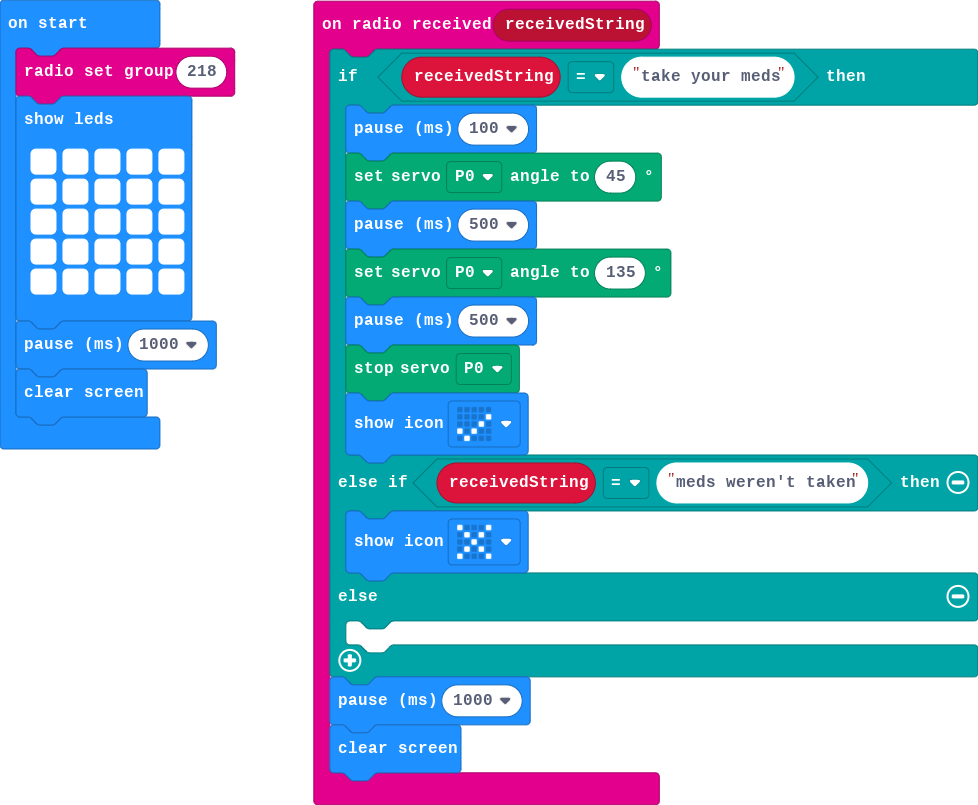
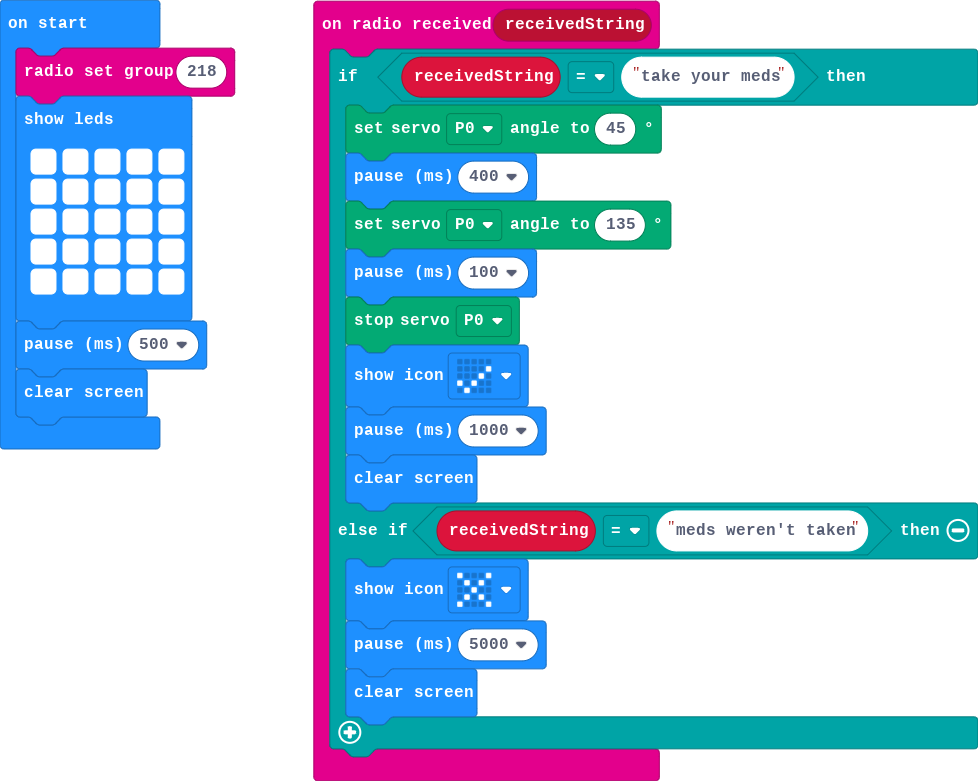
Update main.blocks, main.ts

diff --git a/main.ts b/main.ts
@@ -1,19 +1,18 @@
 radio.onReceivedString(function (receivedString) {
     if (receivedString == "take your meds") {
-        basic.pause(100)
         servos.P0.setAngle(45)
-        basic.pause(500)
+        basic.pause(400)
         servos.P0.setAngle(135)
-        basic.pause(500)
+        basic.pause(100)
         servos.P0.stop()
         basic.showIcon(IconNames.Yes)
+        basic.pause(1000)
+        basic.clearScreen()
     } else if (receivedString == "meds weren't taken") {
         basic.showIcon(IconNames.No)
-    } else {
-    	
+        basic.pause(5000)
+        basic.clearScreen()
     }
-    basic.pause(1000)
-    basic.clearScreen()
 })
 radio.setGroup(218)
 basic.showLeds(`
@@ -23,5 +22,5 @@ basic.showLeds(`
     # # # # #
     # # # # #
     `)
-basic.pause(1000)
+basic.pause(500)
 basic.clearScreen()
